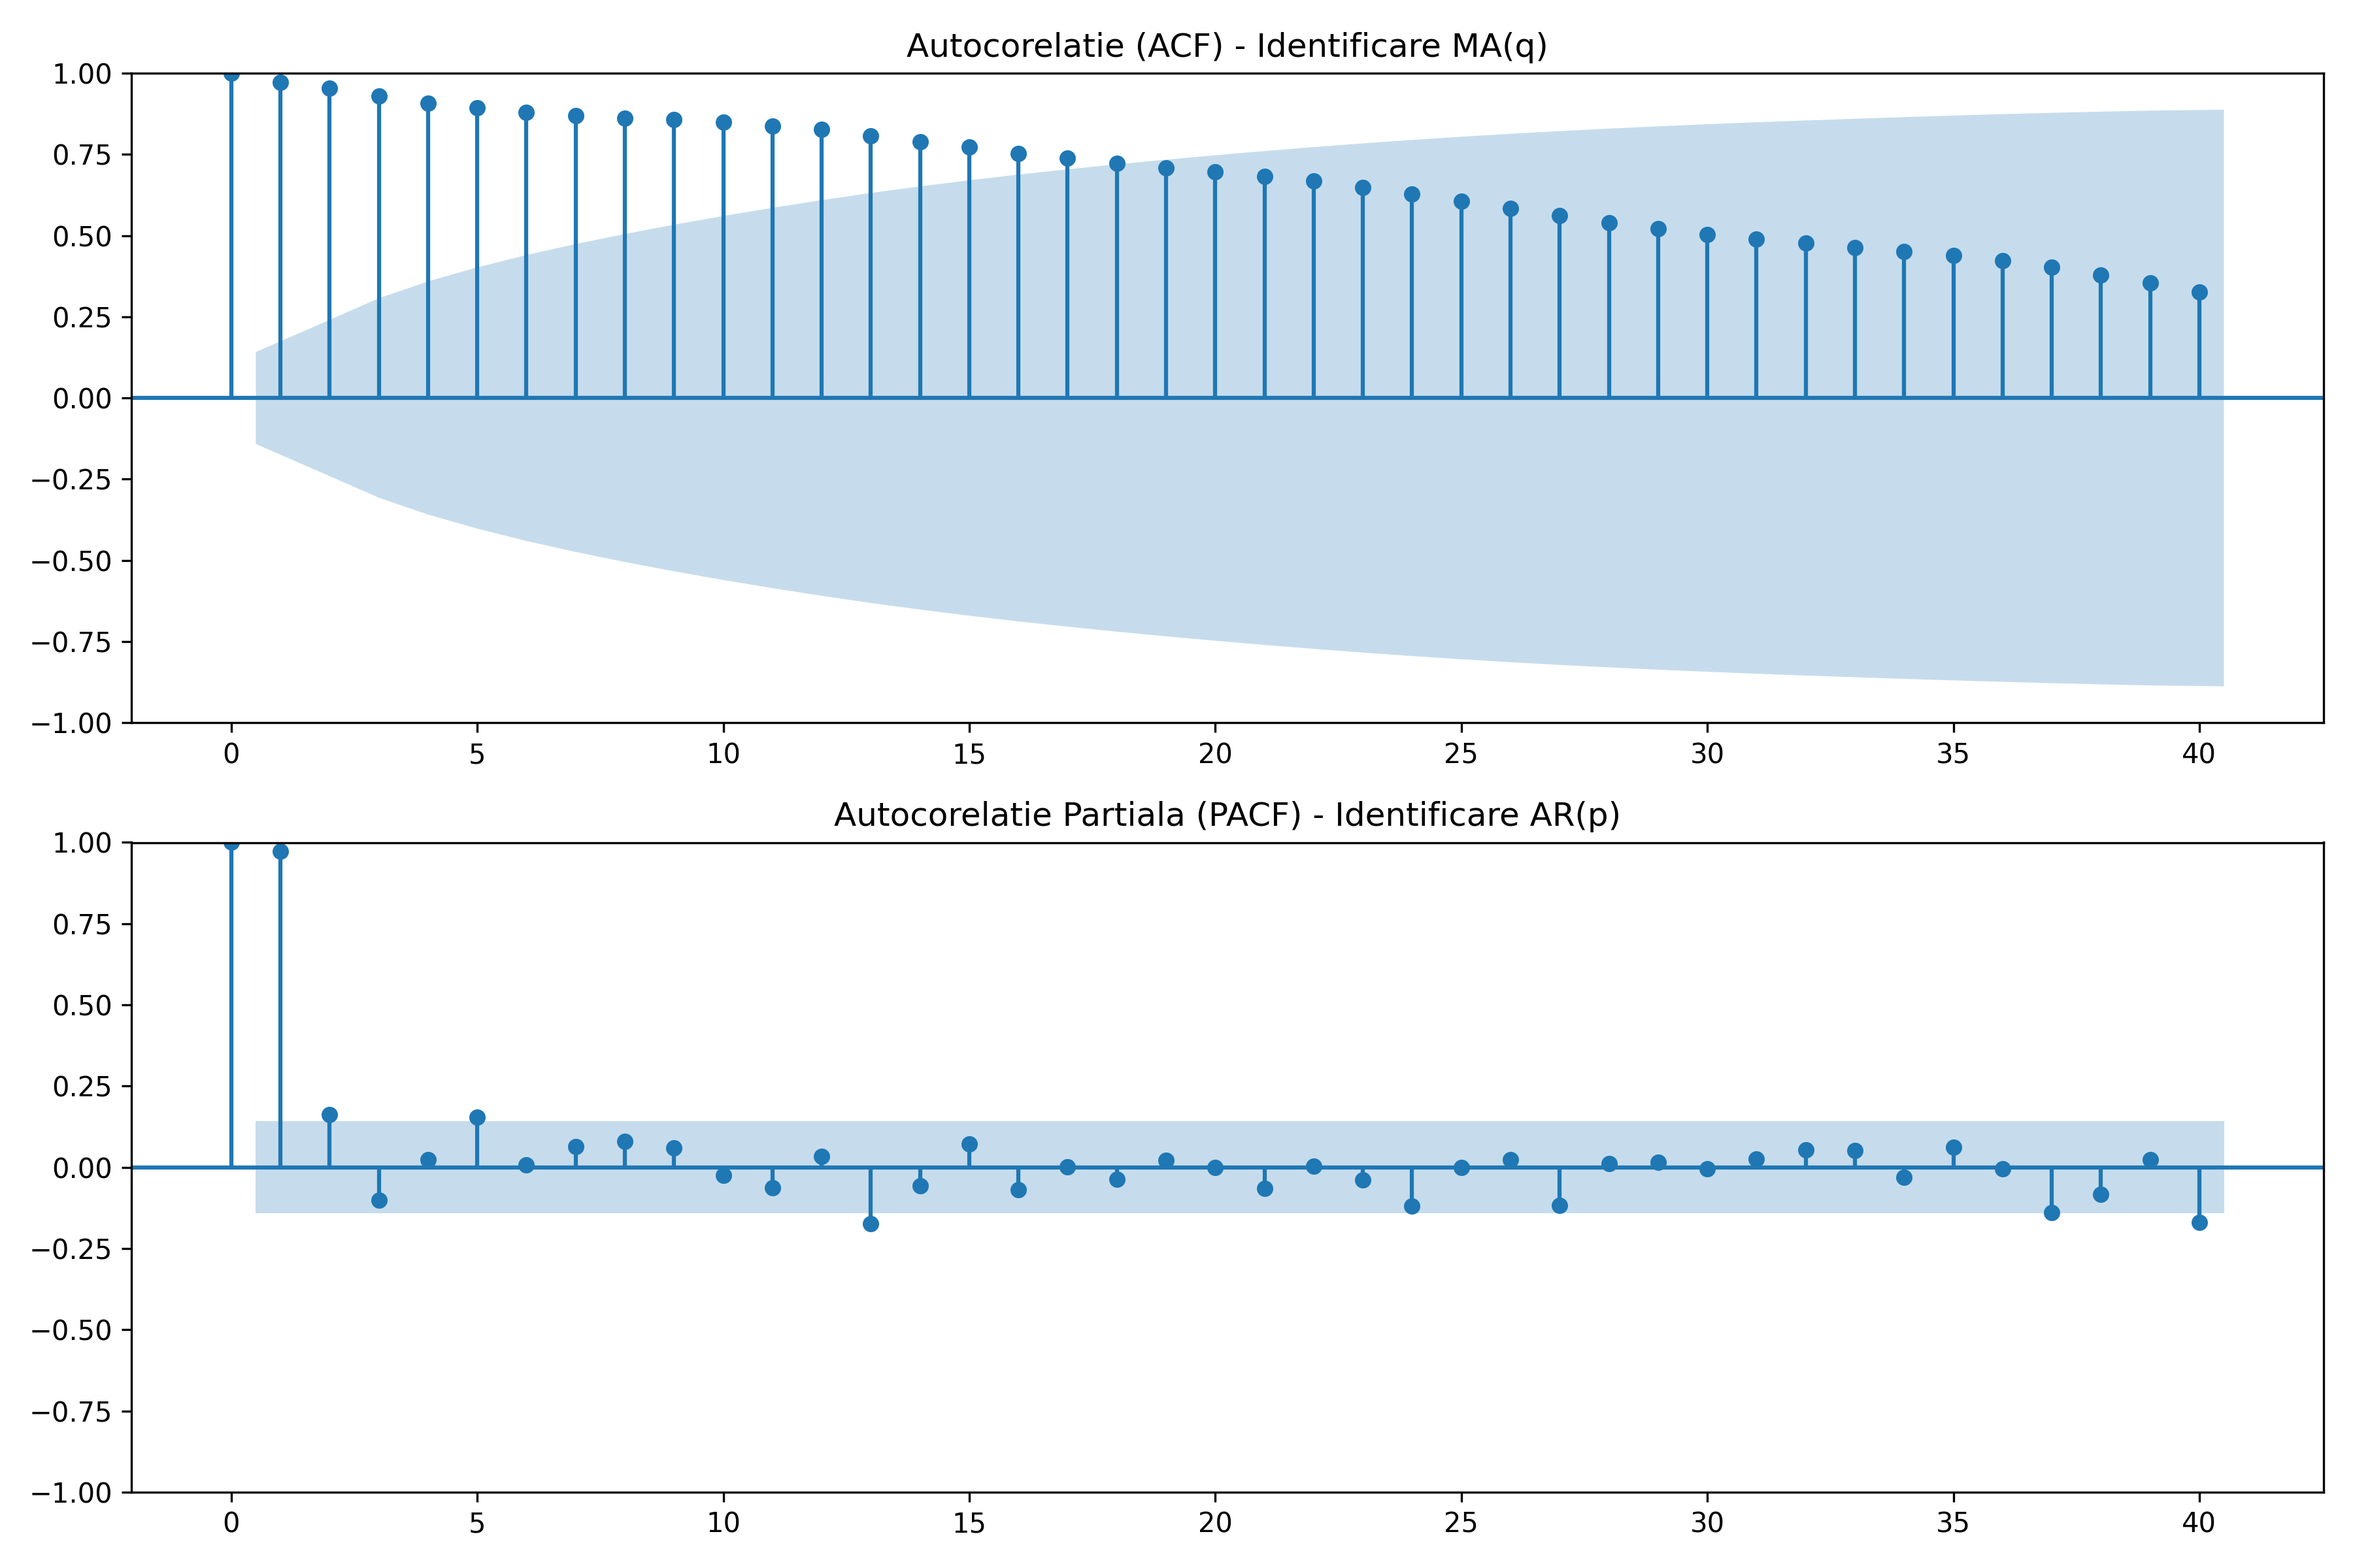
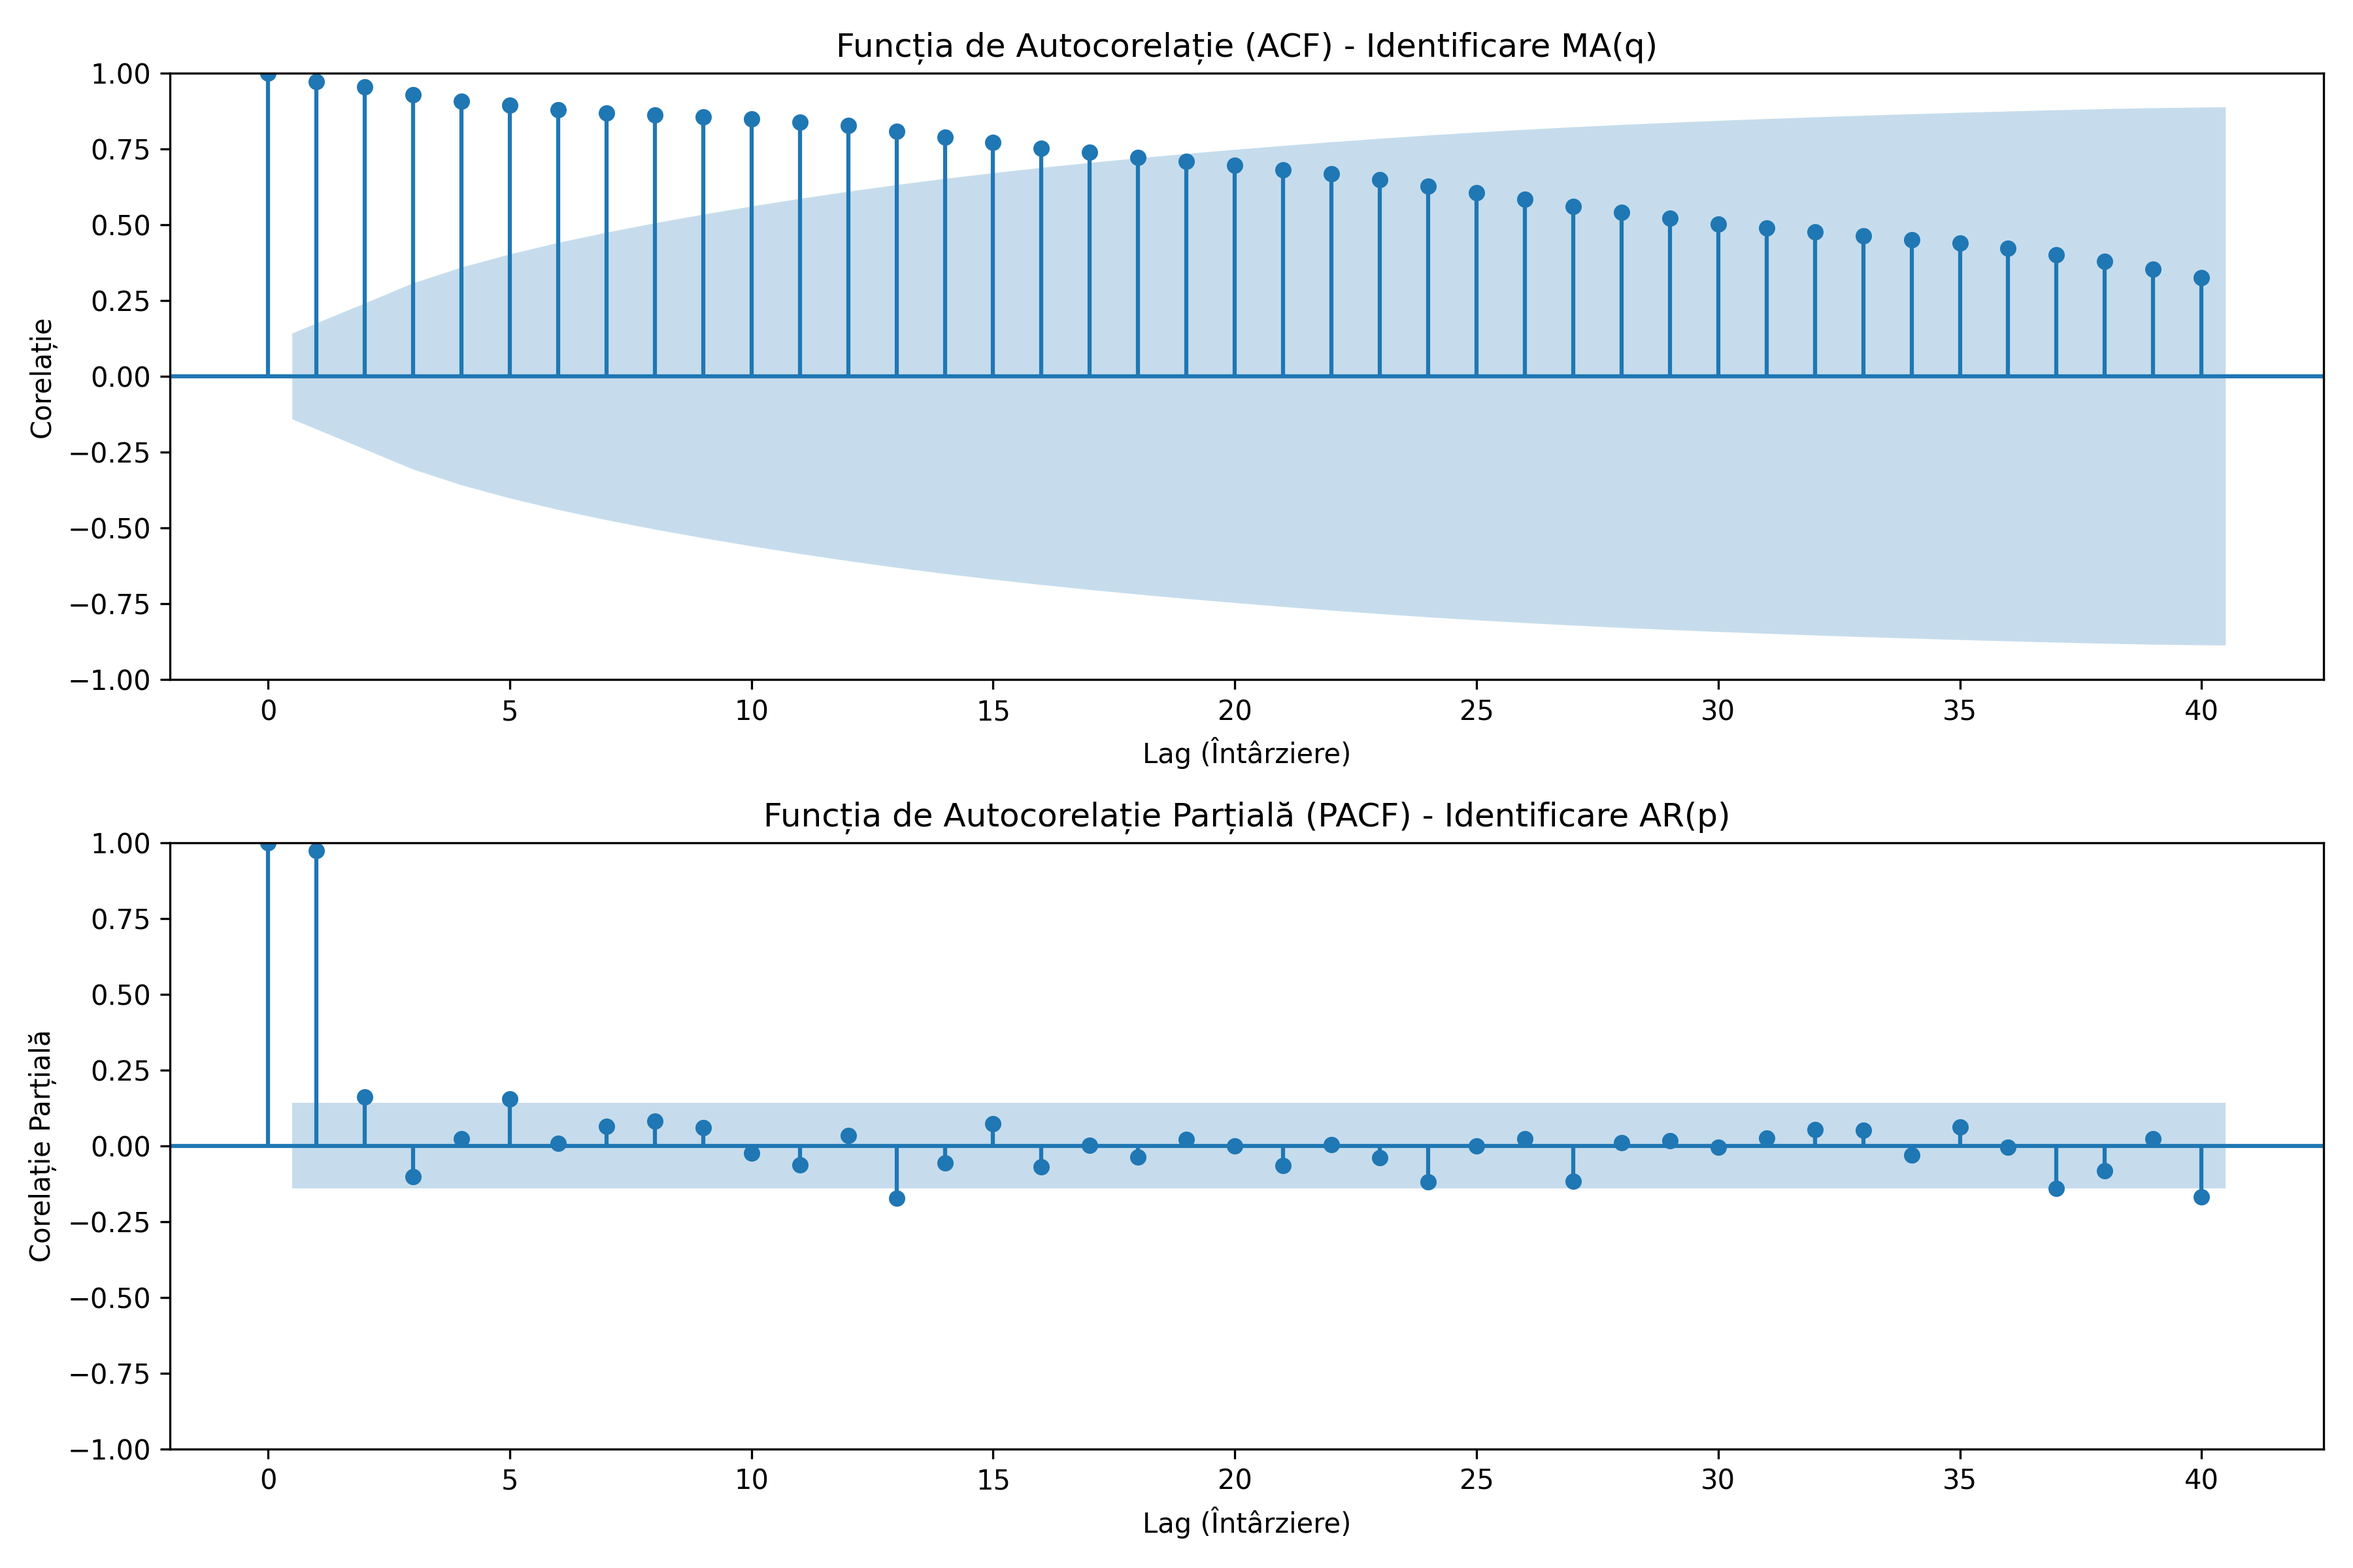
BANGARANGA

diff --git a/arma_analysis/main_arma.py b/arma_analysis/main_arma.py
@@ -64,8 +64,12 @@ test_stationarity(serie)
 # MA: ACF se anuleaza dupa lag q
 # ARMA: Ambele scad gradual (exponential sau sinusoidal amortizat)
 fig, (ax1, ax2) = plt.subplots(2, 1, figsize=(12, 8))
-plot_acf(serie, ax=ax1, lags=40, title='Autocorelatie (ACF) - Identificare MA(q)')
-plot_pacf(serie, ax=ax2, lags=40, title='Autocorelatie Partiala (PACF) - Identificare AR(p)')
+plot_acf(serie, ax=ax1, lags=40, title='Funcția de Autocorelație (ACF) - Identificare MA(q)')
+plot_pacf(serie, ax=ax2, lags=40, title='Funcția de Autocorelație Parțială (PACF) - Identificare AR(p)')
+ax1.set_xlabel('Lag (Întârziere)')
+ax1.set_ylabel('Corelație')
+ax2.set_xlabel('Lag (Întârziere)')
+ax2.set_ylabel('Corelație Parțială')
 plt.tight_layout()
 plt.savefig("rezultate/acf_pacf_identificare.png", dpi=300)
 
@@ -95,7 +99,42 @@ print(f"Cel mai bun model ARMA gasit: ARMA({best_order[0]}, {best_order[2]}) cu 
 # 5. Diagnosticul Modelului (Verificarea reziduurilor conform slide-urilor)
 # Reziduurile trebuie sa fie Zgomot Alb (White Noise)
 print("\n--- Diagnosticul Reziduurilor (Verificare Box-Jenkins) ---")
-best_model_fit.plot_diagnostics(figsize=(12, 10))
+
+# Recreăm manual graficele de diagnostic pentru a avea titluri în Română
+fig = plt.figure(figsize=(12, 10))
+
+# 1. Reziduuri în timp
+ax1 = fig.add_subplot(221)
+ax1.plot(best_model_fit.resid)
+ax1.set_title('Reziduuri Standardizate')
+ax1.axhline(0, color='black', linestyle='--', linewidth=1)
+
+# 2. Histogramă + Densitate
+ax2 = fig.add_subplot(222)
+ax2.hist(best_model_fit.resid, bins=20, density=True, alpha=0.6, color='g')
+# Adăugăm curba normală teoretică pentru referință
+xmin, xmax = ax2.get_xlim()
+x = np.linspace(xmin, xmax, 100)
+mu = np.mean(best_model_fit.resid)
+sigma = np.std(best_model_fit.resid)
+p = (1 / (sigma * np.sqrt(2 * np.pi))) * np.exp(-0.5 * ((x - mu) / sigma)**2)
+ax2.plot(x, p, 'k', linewidth=2, label='Normală')
+ax2.set_title('Histogramă și Densitate')
+ax2.set_xlabel('Eroare')
+ax2.set_ylabel('Densitate')
+
+# 3. Normal Q-Q Plot
+ax3 = fig.add_subplot(223)
+sm.graphics.qqplot(best_model_fit.resid, line='s', ax=ax3)
+ax3.set_title('Grafic Normal Q-Q')
+ax3.set_xlabel('Cuantile Teoretice')
+ax3.set_ylabel('Cuantile Eșantion')
+
+# 4. Corelograma reziduurilor
+ax4 = fig.add_subplot(224)
+plot_acf(best_model_fit.resid, ax=ax4, title='Corelograma Reziduurilor (ACF)')
+ax4.set_xlabel('Lag')
+
 plt.tight_layout()
 plt.savefig("rezultate/diagnostic_model_arma.png", dpi=300)
 
@@ -132,16 +171,16 @@ confidence_intervals = forecast_res.conf_int()
 
 # 7. Vizualizare Rezultate Finale
 plt.figure(figsize=(12, 6))
-plt.plot(train.index, train, label="Date Antrenare", color="blue")
-plt.plot(test.index, test, label="Date Reale (Test)", color="green", alpha=0.6)
-plt.plot(forecast_mean.index, forecast_mean, label=f"Prognoza ARIMA{best_order}", color="red", linestyle="--")
+plt.plot(train.index, train, label="Date Antrenare (Istoric)", color="blue")
+plt.plot(test.index, test, label="Date Reale (Validare)", color="green", alpha=0.6)
+plt.plot(forecast_mean.index, forecast_mean, label=f"Prognoza ARMA({best_order[0]}, {best_order[2]})", color="red", linestyle="--")
 plt.fill_between(confidence_intervals.index, 
                  confidence_intervals.iloc[:, 0], 
-                 confidence_intervals.iloc[:, 1], color='pink', alpha=0.3, label="Interval Incredere 95%")
+                 confidence_intervals.iloc[:, 1], color='pink', alpha=0.3, label="Interval de Încredere 95%")
 
-plt.title(f"Prognoza Serii de Timp - Model ARIMA{best_order}")
-plt.xlabel("An")
-plt.ylabel("Valoare")
+plt.title(f"Prognoza Serii de Timp - Model ARMA({best_order[0]}, {best_order[2]})")
+plt.xlabel("Anul")
+plt.ylabel("Rata Șomajului BIM (%)")
 plt.legend()
 plt.grid(True, alpha=0.3)
 plt.tight_layout()
